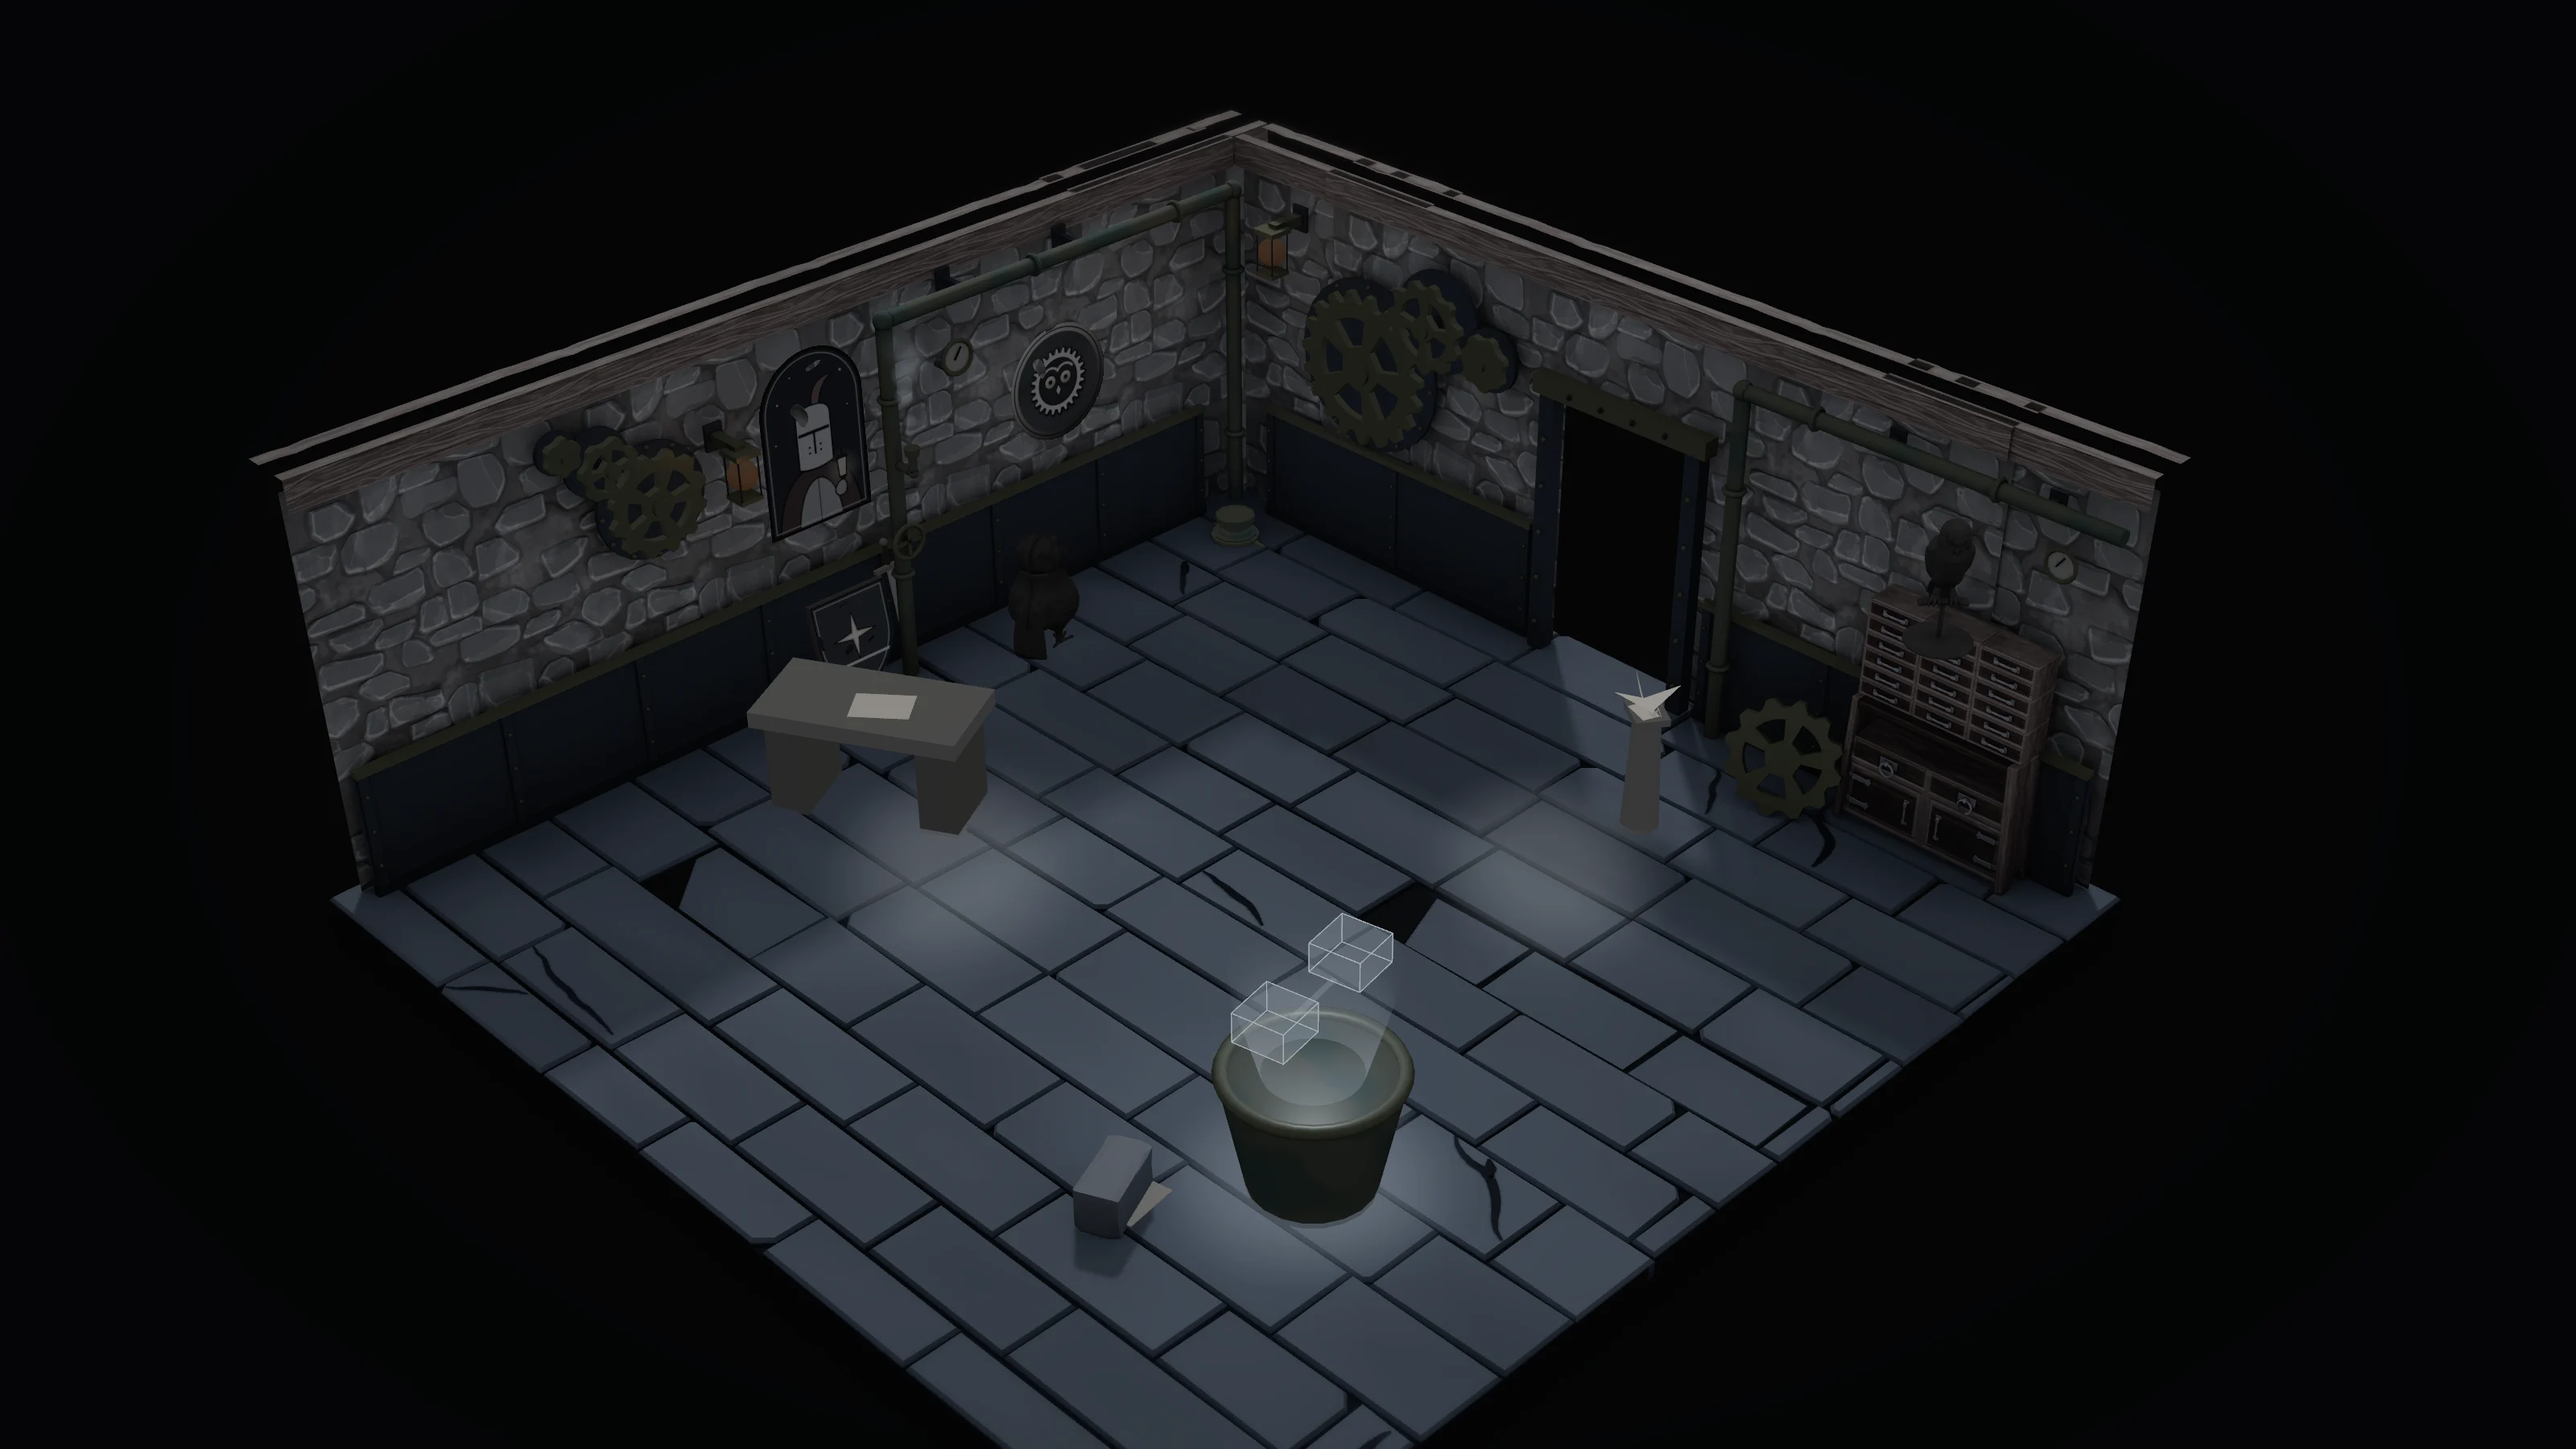
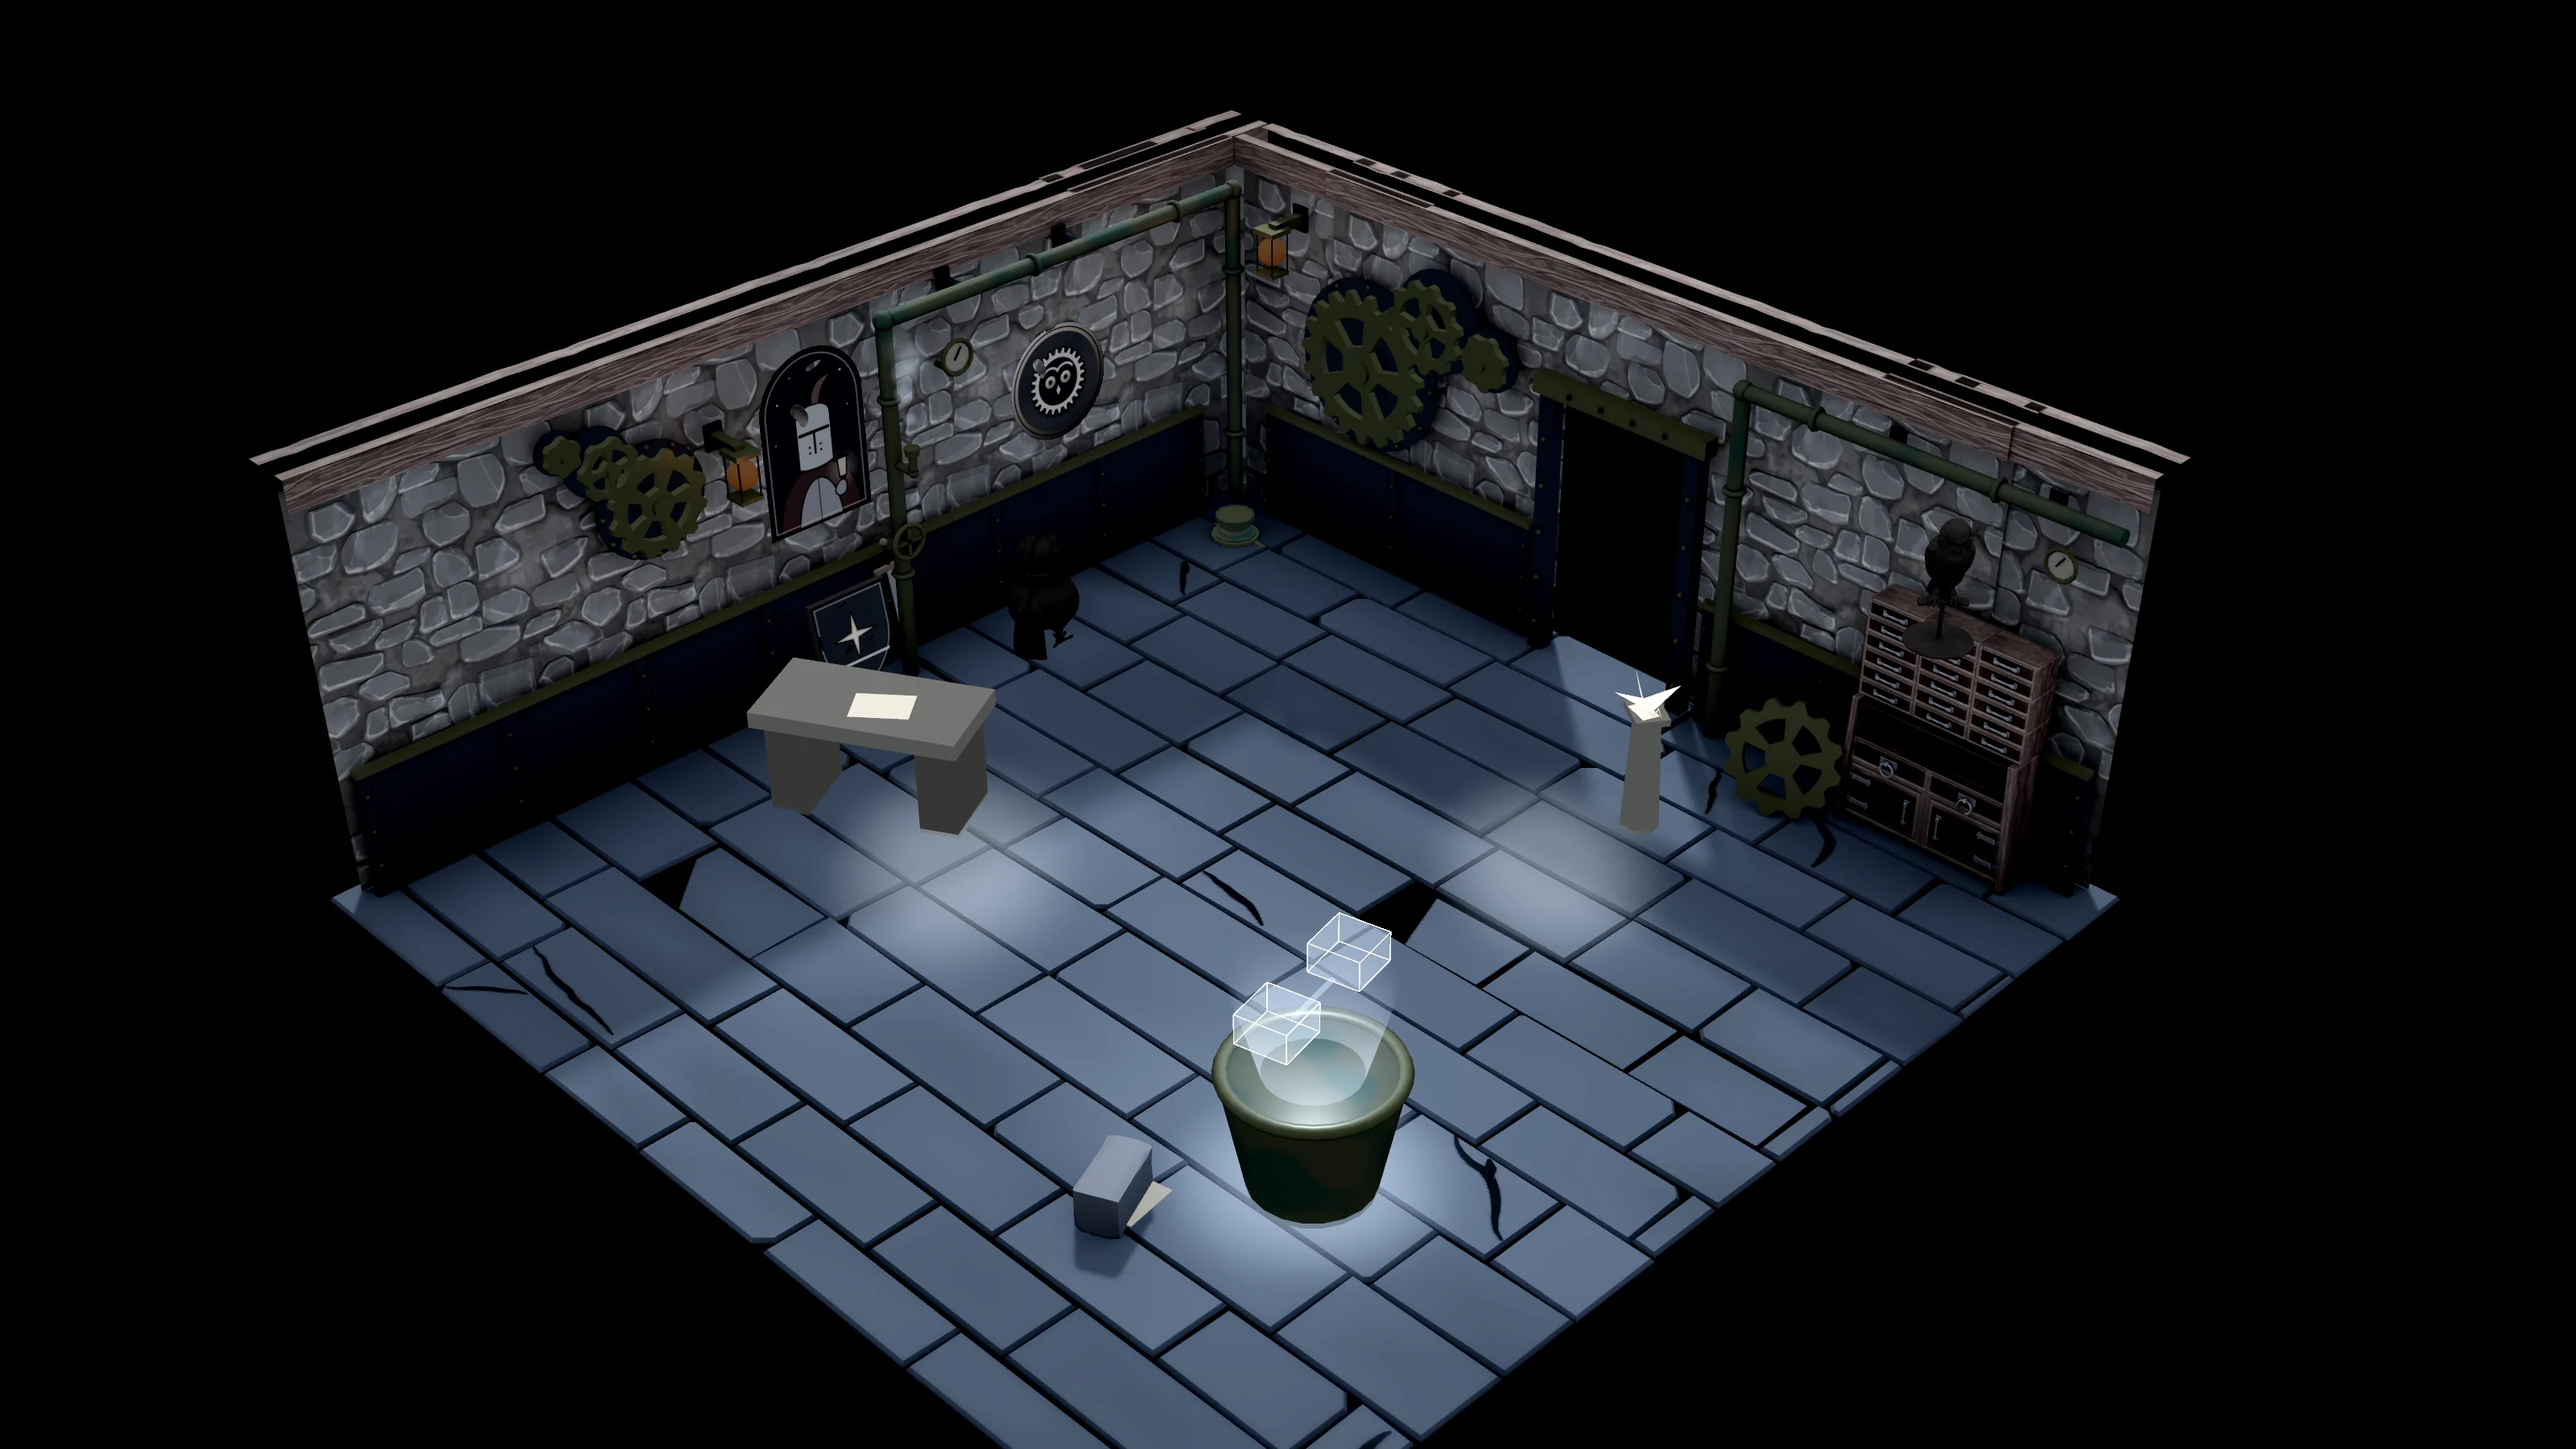
Keep fog off picture rooms and lift ruined captures so every shape reads

Changed region(s): [[0.125, 0.4044, 0.7812, 1.0], [0.0938, 0.0622, 0.8438, 0.5289]]

diff --git a/apps/web/src/world/prerender/RoomPicture.tsx b/apps/web/src/world/prerender/RoomPicture.tsx
@@ -48,6 +48,8 @@ export function RoomPicture({ id, home }: { id: string; home: Vector3 }) {
     m.vertexNode = vec4(positionGeometry.xy, float(0.99), float(1));
     m.colorNode = mix(texture(restored as never).rgb, texture(ruined as never).rgb, ruinAt(vec3(floor) as never));
     m.toneMapped = false;
+    // The picture holds its own atmosphere: the room's fog would lie over it like smoke.
+    m.fog = false;
     return m;
   }, [ruined, restored, camera, home]);
   return <mesh geometry={SCREEN} material={material} frustumCulled={false} renderOrder={-1000} />;
